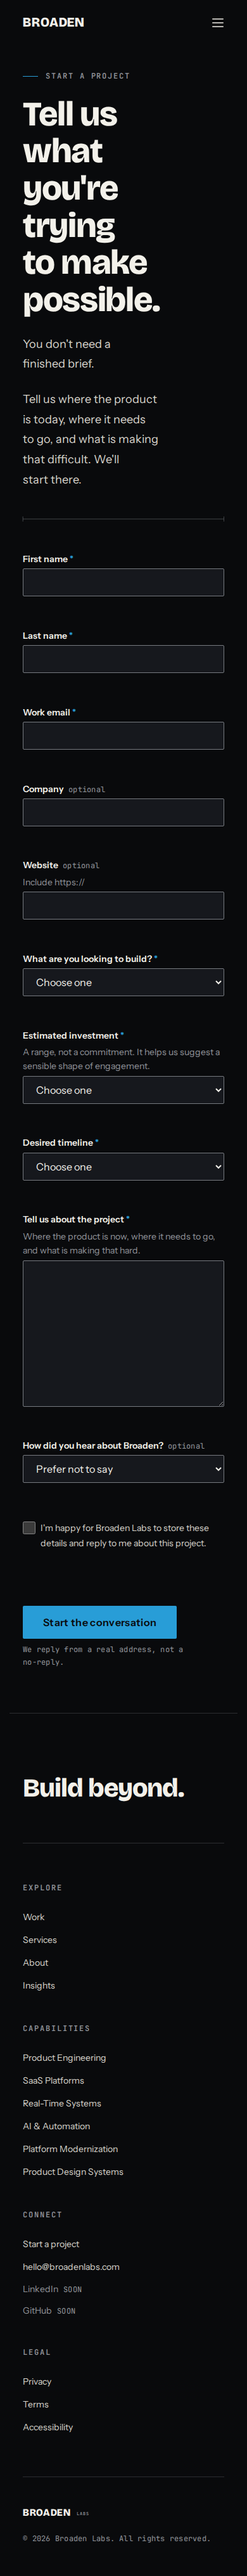
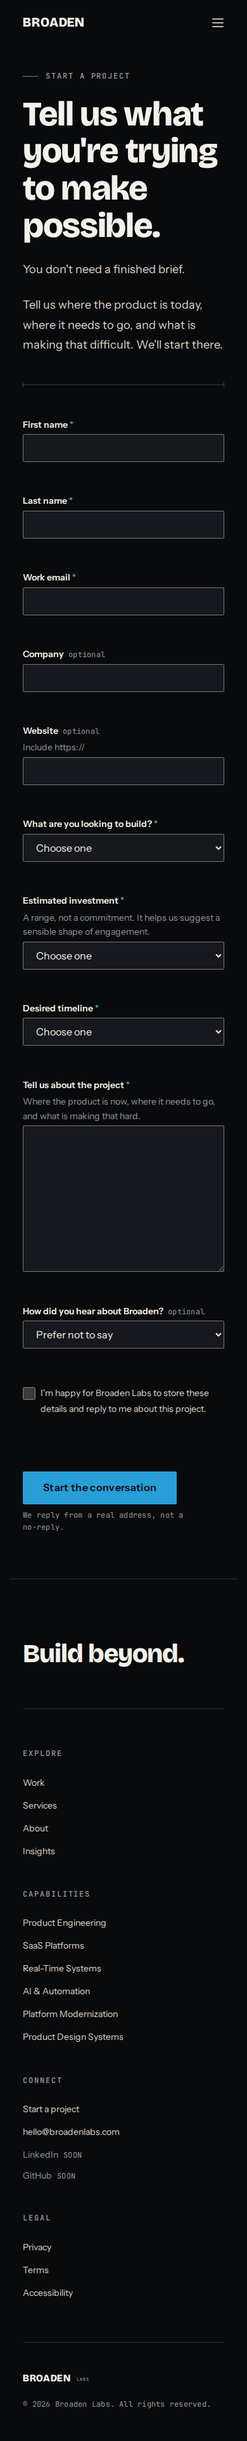
fix(visual): adopt the Linux mobile baselines from the runner that compares them
`home-mobile` and `contact-mobile` are the two snapshots the grid fix changes, so
their Linux baselines were stale by construction. Regenerated the documented way:
push, let the visual job fail, download `visual-diff-linux`, check the -actual,
commit that file. Not locally — an emulated container does not rasterise like the
native runner, which is what produced the last stale baseline.

Both are byte-identical across the runner's two attempts (home-mobile
2ad95ef9…, contact-mobile 4be4c366…), so they are artifacts of that environment
rather than a lucky capture. Heights 17,252px and 3,852px against darwin's
17,302px and 3,852px — the 50px delta is font rasterisation, and the layout is
the same.

Looked at the -actual before adopting rather than trusting the height. The
paragraph that was wrapping at two words per line now sets full width on Linux
too.

That inspection also turned up something worth writing down: the
`ul.capabilities` chips inside each service card paint nothing in EVERY baseline,
on both platforms, and always have. `getComputedStyle` reports `opacity: 0`
identically with and without `visual.stylesheet.css`, so the harness stylesheet
is not the cause — the chips are scroll-revealed, sit below the fold, and a
`fullPage` capture never scrolls, so their trigger never fires. They render
correctly in a real browser. `reveal({ children: 'li' })` on `ul.cards` matches
every descendant `li`, and the pin list only covers `.cards > li`.
[…]

diff --git a/TODO.md b/TODO.md
@@ -25,6 +25,36 @@ is now fixed by version floors in `pnpm-workspace.yaml`. Both `pnpm audit` and
 
 **Blocks:** nothing. Revisit if extract-zip ever ships 2.0.2.
 
+### The visual baselines do not cover scroll-revealed content nested inside a card
+
+**Not user-facing, and pre-existing** — recorded because it is a blind spot in a
+gate, and because the next person to see it will otherwise think it is a bug in
+the page.
+
+`ServiceCard.svelte` renders `ul.capabilities > li` chips ("Product
+architecture", "Web applications", …). In every committed baseline, on BOTH
+platforms, those chips occupy their layout box and paint nothing.
+
+**Measured, not inferred.** `getComputedStyle` on `.capabilities li` after load
+reports `opacity: 0`, identically with and without `visual.stylesheet.css`
+injected — so the harness stylesheet is not the cause. The chips are revealed on
+scroll, they sit below the fold, and a `fullPage: true` capture never scrolls, so
+their ScrollTrigger never fires. Scroll to them in a real browser and they
+render correctly.
+
+The mechanism is that `+page.svelte` attaches `reveal({ children: 'li' })` to
+`ul.cards`, which matches every descendant `li` — including the chips nested
+inside each card — not just the cards themselves. `visual.stylesheet.css` pins
+`.cards > li` back to `opacity: 1`, and the child combinator means the nested
+chips are not covered.
+
+**What it costs:** a change to those chips cannot fail the visual suite.
+
+**Fixing it** means either narrowing the reveal to `:scope > li` or adding the
+nested selectors to the pin list. Both change animation behaviour or every
+baseline on two platforms, so neither belongs in a change that was about the
+mobile grid. Left deliberately for its own pass.
+
 ### `layout-shift` is a Chromium-only API
 
 **Not a gap so much as a correction, recorded so it is not "fixed" back.**
